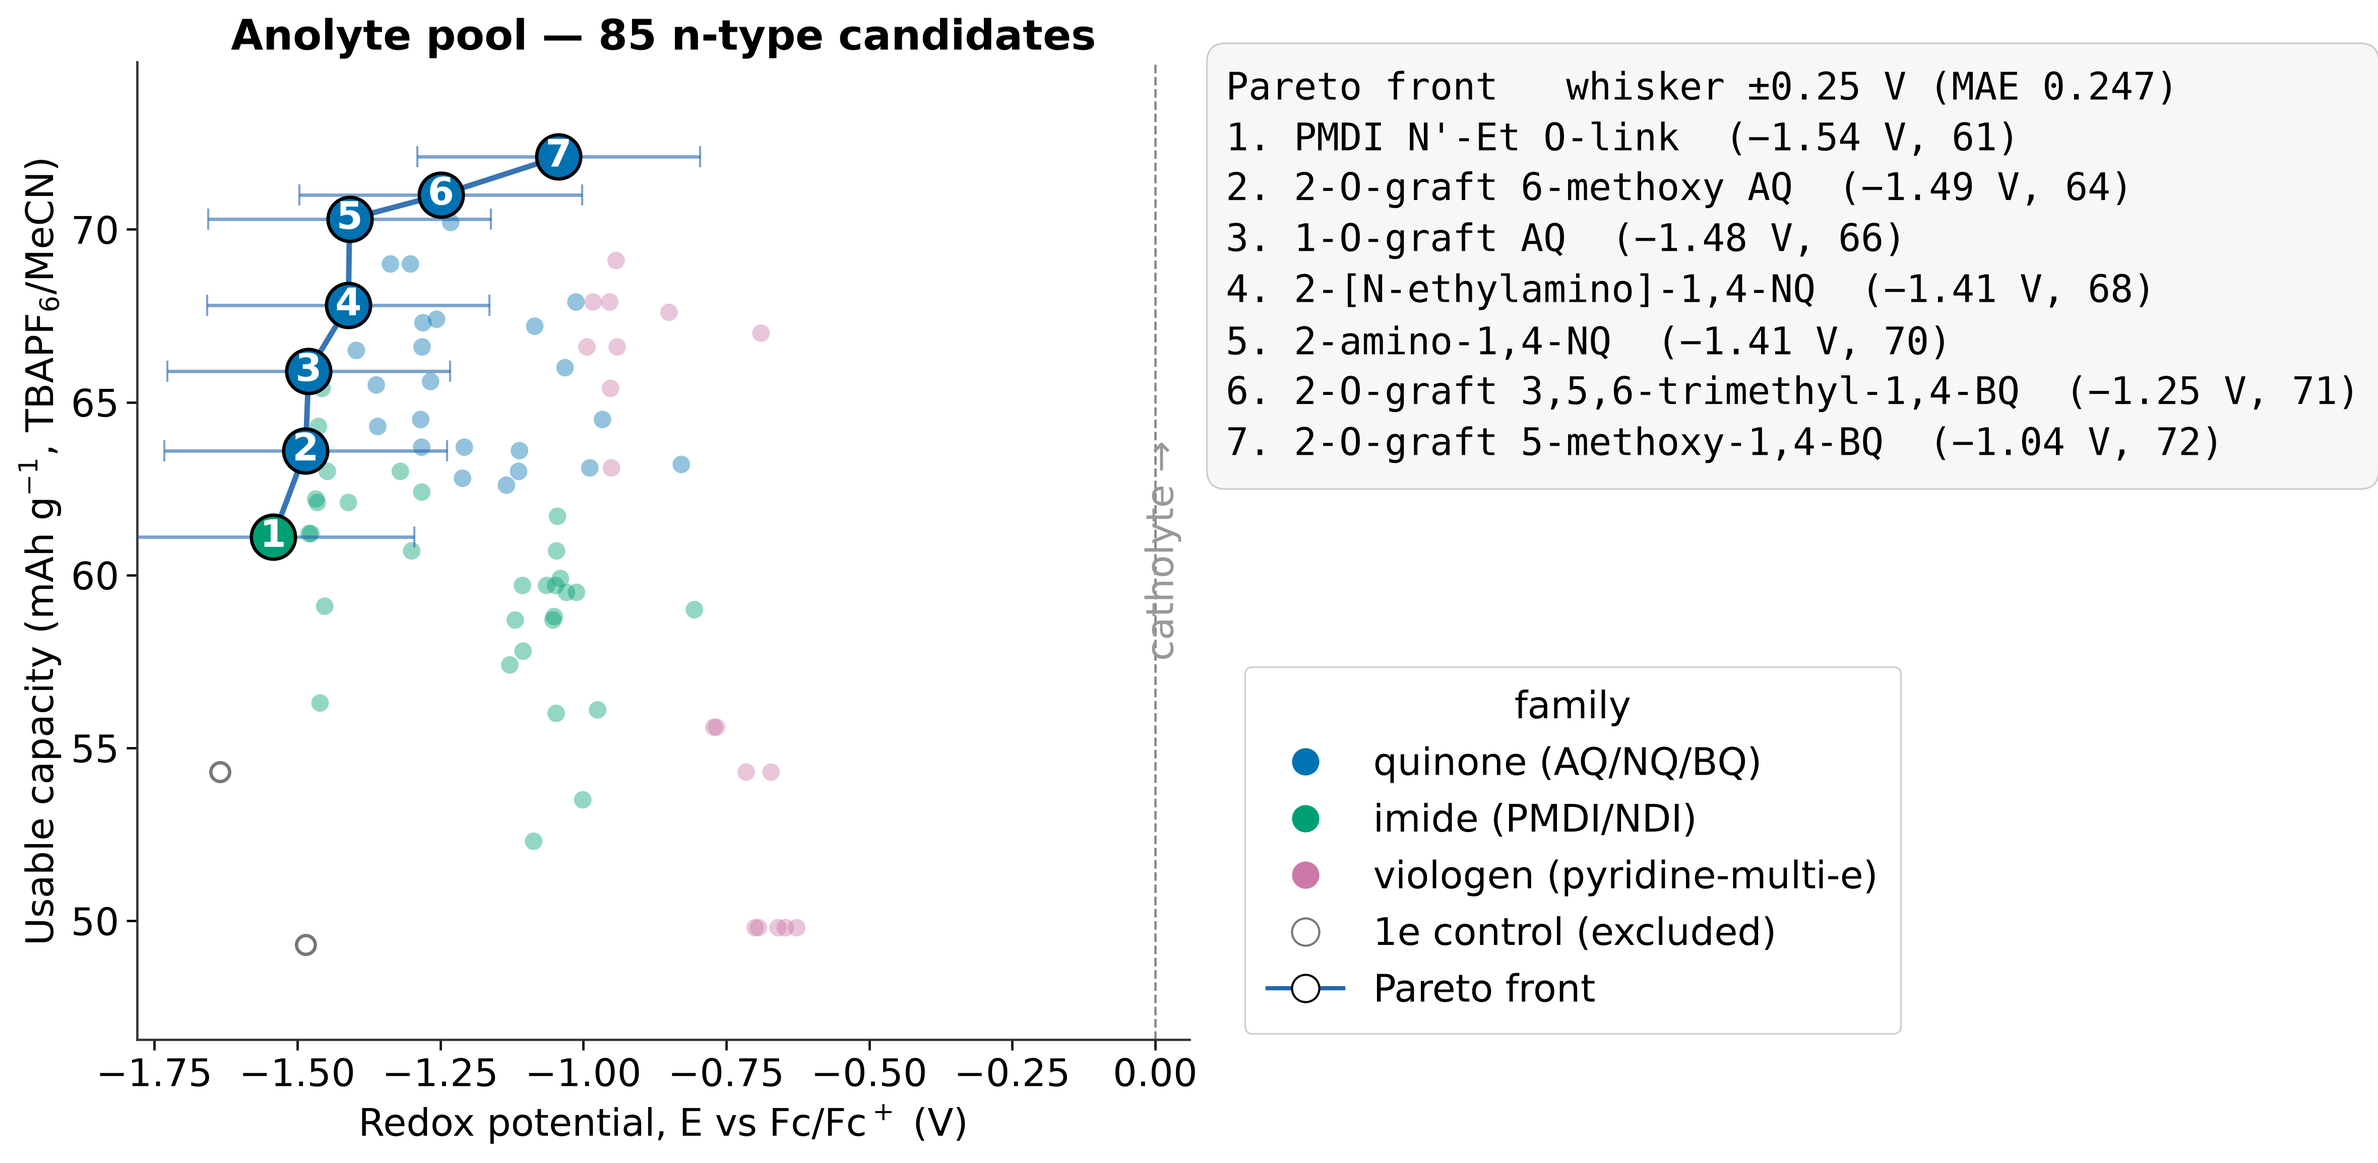
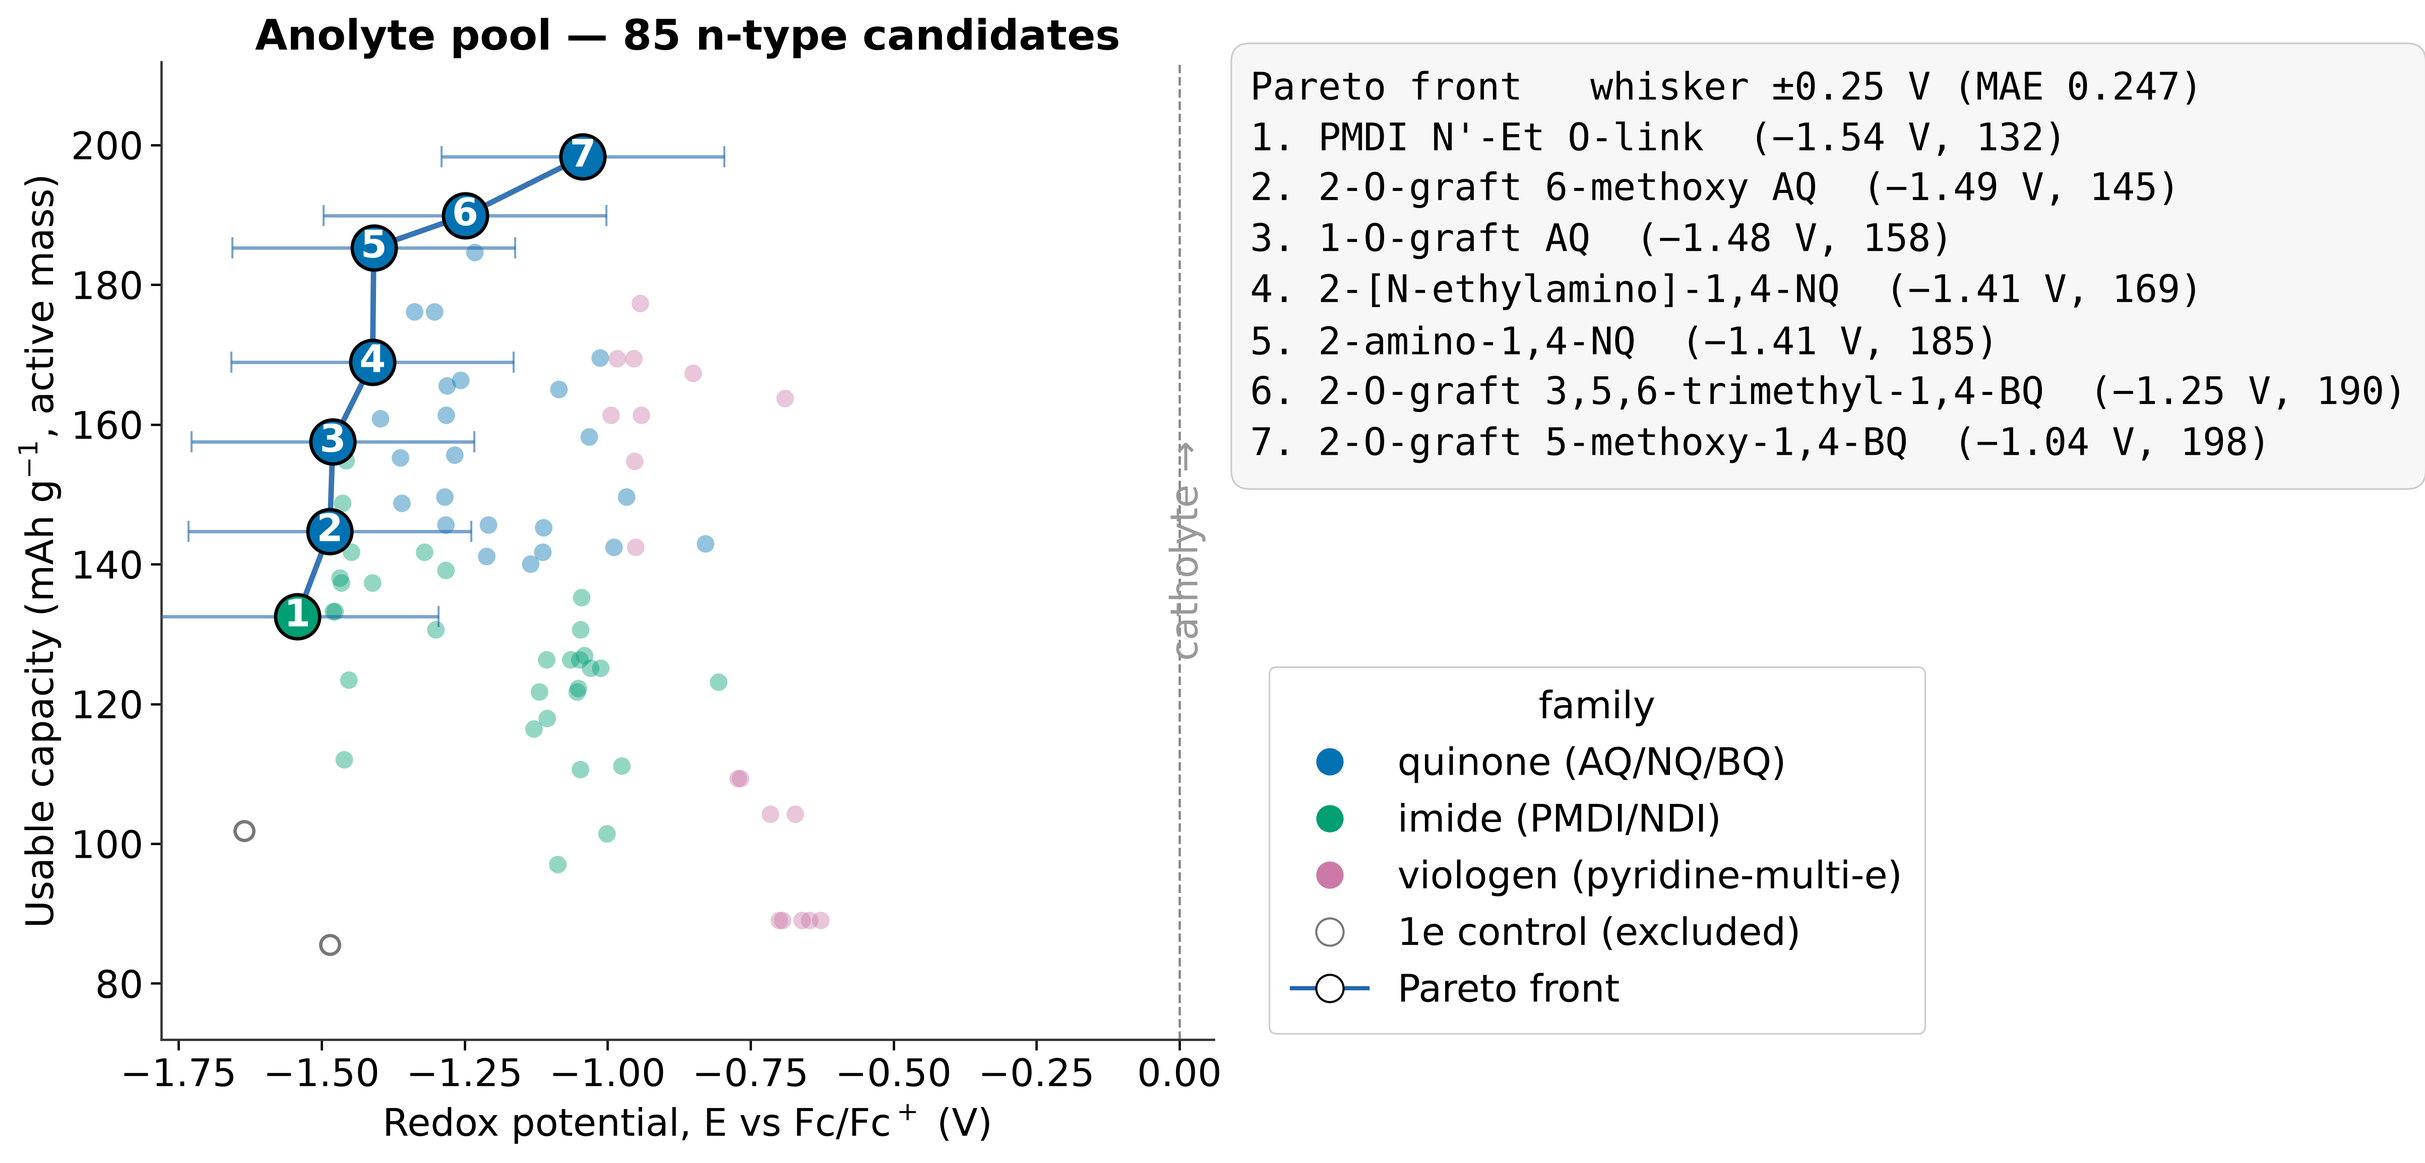
Report capacity on active repeat-unit mass; add catholyte calibration
Capacity: the scored pool CSV reported nF/3.6(MW + n*counterion), a
salt-loaded convention that contradicted the Methods formula and
penalized anolytes (TBA+ 242) more than catholytes (PF6- 145). The CSV
now carries cap_active_mAh_g (neutral polystyrene repeat-unit mass,
counterions excluded; the primary, standard convention) and
cap_salt_mAh_g (secondary, SI). Pareto-front membership is unchanged
in both pools; Figures 5 and 6b are regenerated on the active basis.
The claim that DMPZ capacity exceeds the anolyte band is withdrawn
(140-170 vs 90-200 mAh/g: comparable).

Potentials: Validation now reports the direction-split bias from the
39-endpoint panel (oxidation +0.29 V / reduction +0.17 V) and the
single-molecule BMEPZ check (MAE 0.30 V, bias +0.30 V), stating that
absolute DMPZ potentials are likely ~0.3 V too positive and that
matched shifts are the robust quantity. Cell voltages are given with
family-bias correction (1.91/1.95 -> ~1.84/1.88 V).

diff --git a/scripts/plotting/manuscript/fig5_pareto.py b/scripts/plotting/manuscript/fig5_pareto.py
@@ -9,7 +9,9 @@ Two SEPARATE one-panel figures (JCIM house rule + STYLE_CONTRACT.md: one panel p
 Axes are the two raw performance quantities, kept SEPARATE (no scalarized / weighted-sum
 figure of merit):
     x = redox potential  E  vs Fc/Fc+   (V)
-    y = usable capacity                  (mAh/g, TBAPF6/MeCN)
+    y = usable theoretical capacity      (mAh/g, nF/3.6M on the neutral active-species mass;
+        counterions excluded -- the standard convention; the salt-loaded variant is in the
+        CSV column cap_salt_mAh_g and the SI)
 
 One point per candidate, coloured by redox family (colours per STYLE_CONTRACT §2, identical
 across both panels). The Pareto-optimal front within each pool is marked (step line + outlined,
@@ -74,7 +76,7 @@ CAT_FRONT = "#B2182B"
 
 # Verbatim axis labels (STYLE_CONTRACT §3).
 XLABEL = "Redox potential, $E$ vs Fc/Fc$^+$ (V)"
-YLABEL = "Usable capacity (mAh g$^{-1}$, TBAPF$_6$/MeCN)"
+YLABEL = "Usable capacity (mAh g$^{-1}$, active mass)"
 
 # ---- compact real-chemistry labels (adapted from make_full_pool_figure.py) ----
 _CORE = [("anthracene-9,10-dione", "AQ"), ("anthraquinone", "AQ"),
@@ -162,7 +164,7 @@ def load_frozen():
     rows = [r for r in rows if r["id"] not in EXTRA_IDS]
     for r in rows:
         r["E"] = float(r["E_mean"])
-        r["cap"] = float(r["cap_mAh_g"])
+        r["cap"] = float(r["cap_active_mAh_g"])
         r["ctrl"] = r["id"].endswith("_control") or r["n"] == "1"
         r["fk"] = fam_key(r["family"])
         r["lab"] = label_for(r["name"])
@@ -256,12 +258,12 @@ def fig_catholyte(rows):
     fig.subplots_adjust(left=0.085, right=0.52, top=0.90, bottom=0.13)
 
     ax.set_xlim(-0.02, 2.0)   # full catholyte window (0 -> +2.0 V vs Fc) -> sparsity visible
-    ax.set_ylim(74, 96)
+    ax.margins(y=0.22)
 
     cat_max_E = max(r["E"] for r in cat)
     ax.axvspan(cat_max_E, 2.0, color="#DDDDDD", alpha=0.35, zorder=0)
-    ax.text((cat_max_E + 2.0) / 2, 94.6, "sparse /\nlargely unexplored", ha="center",
-            va="top", fontsize=BASE, color="#888888", style="italic")
+    ax.text((cat_max_E + 2.0) / 2, 0.95, "sparse /\nlargely unexplored", ha="center",
+            transform=ax.get_xaxis_transform(), va="top", fontsize=BASE, color="#888888", style="italic")
 
     for r in cat:
         if r["id"] in front_ids:

diff --git a/scripts/plotting/manuscript/fig6_dmpz_design_rule.py b/scripts/plotting/manuscript/fig6_dmpz_design_rule.py
@@ -84,7 +84,7 @@ def load_rows():
     out = {}
     for cid, m in META.items():
         r = rows[cid]
-        out[cid] = dict(E=float(r["E_mean"]), cap=float(r["cap_mAh_g"]),
+        out[cid] = dict(E=float(r["E_mean"]), cap=float(r["cap_active_mAh_g"]),
                         couples=r["E_couples"], **m)
     return out, rows
 
@@ -215,19 +215,21 @@ def make_fig6b(data):
     # span annotation across the grafted DMPZ series
     dmpz_E = [d["E"] for d in data.values() if d["fam"] == "dmpz"]
     lo, hi = min(dmpz_E), max(dmpz_E)
-    ax.annotate("", xy=(hi, 95.4), xytext=(lo, 95.4),
+    caps = [d["cap"] for d in data.values()]
+    y_arrow = max(caps) + 9.0
+    ax.annotate("", xy=(hi, y_arrow), xytext=(lo, y_arrow),
                 arrowprops=dict(arrowstyle="<->", color="#555555", lw=2.0))
-    ax.text((lo + hi) / 2, 96.1,
+    ax.text((lo + hi) / 2, y_arrow + 1.0,
             f"grafted DMPZ series: {_fmt(lo)} to {_fmt(hi)} V",
             ha="center", va="bottom", fontsize=FS, color="#333333")
 
     ax.set_xlabel("Redox potential, E vs Fc/Fc⁺ (V)", fontsize=FS)
-    ax.set_ylabel("Usable capacity (mAh g⁻¹, TBAPF₆/MeCN)", fontsize=FS)
+    ax.set_ylabel("Usable capacity (mAh g⁻¹, active mass)", fontsize=FS)
     ax.set_title("Catholyte sub-space populated by a structured DMPZ family",
                  fontsize=FS + 2, pad=14)
     ax.tick_params(axis="both", labelsize=FS)
     ax.set_xlim(0.05, 0.98)
-    ax.set_ylim(78, 99)
+    ax.set_ylim(min(caps) - 9.0, max(caps) + 15.0)
     grid_xy(ax, alpha=0.3)
 
     legend = [

diff --git a/scripts/plotting/make_full_pool_figure.py b/scripts/plotting/make_full_pool_figure.py
@@ -68,7 +68,7 @@ COL["other"] = "#999999"
 
 rows = list(csv.DictReader(open(CSV)))
 for r in rows:
-    r["E"] = float(r["E_mean"]); r["cap"] = float(r["cap_mAh_g"])
+    r["E"] = float(r["E_mean"]); r["cap"] = float(r["cap_active_mAh_g"])
     r["ctrl"] = r["id"].endswith("_control") or r["n"] == "1"
     r["fk"] = fam_key(r["family"]); r["lab"] = label_for(r["name"])
 

diff --git a/manuscript/manuscript_draft_v0.md b/manuscript/manuscript_draft_v0.md
@@ -262,7 +262,14 @@ never combined.
   *live* at the active protocol with the same free-energy definition as the
   molecules, cancelling the systematic error of an absolute reference
   (`properties/potentials.py`; RT/F = 0.025693 V, Nernst slope 0.059160 V).
-- **Usable capacity.** Specific capacity C_spec = nF/(3.6·MW) [mAh g⁻¹] on the
+- **Usable capacity.** Theoretical specific capacity C_spec = nF/(3.6·M) [mAh g⁻¹],
+  with M the neutral polystyrene repeat-unit mass of the graft (above) and
+  counterions excluded, the usual active-material convention. A salt-loaded variant
+  that adds the heaviest counterion load (n PF₆⁻ for catholytes, n TBA⁺ for
+  anolytes) is reported in the SI. Because TBA⁺ (242 g mol⁻¹) is much heavier than
+  PF₆⁻ (145 g mol⁻¹), that variant penalizes anolytes more than catholytes, so it
+  must not be used to compare capacities across pools. It does not change
+  Pareto-front membership within either pool. Capacity is counted on the
   accessible electron path, with electrons counted as *usable* only while their
   potentials lie inside the TBAPF₆/MeCN stability window ([−3.0, 2.0] V vs Fc,
   anolyte/catholyte divider 0 V); a second electron outside the window collapses to
@@ -400,7 +407,10 @@ experimental potentials with a mean absolute error of **0.247 V**, an RMSE of 0.
 and a **systematic bias of +0.19 V** (computed potentials sit above experiment),
 with a maximum absolute error of 0.547 V. The panel comprises **39 scored
 endpoints (redox couples) drawn from 30 molecules and seven independent studies**.
-Per-molecule (macro) MAE is 0.263 V. Uncertainty is
+Per-molecule (macro) MAE is 0.263 V. The bias depends on the direction of the
+couple: the 33 reduction endpoints (anolyte-like) give MAE 0.239 V and bias
++0.17 V, whereas the six oxidation endpoints (five phenothiazine, one nitroxide;
+catholyte-like) give MAE 0.289 V and bias +0.29 V. Uncertainty is
 quantified by cluster bootstrap (2000 replicates, seed 20261021): resampling by
 molecule gives a 95% interval of [0.213, 0.286] V for MAE and [0.128, 0.257] V for
 bias; the weaker seven-study clustering gives [0.178, 0.306] V and [0.053, 0.285] V,
@@ -426,6 +436,17 @@ polymer interactions (`exact_graft_accuracy_validated = False` in the record); e
 naphthalene-diimide (NDI) accuracy is not covered, since the available NDI entry was
 excluded for inferred identity and unspecified stereocenters; and causal attribution of
 the bias to the Fc reference versus solvation remains unresolved.
+
+The panel contains no dihydrophenazine, so it does not by itself calibrate the
+catholyte family used in the showcase below. As a family-specific check we computed
+the exact measured parent, 5,10-bis(2-methoxyethyl)-5,10-dihydrophenazine (BMEPZ;
+E₁ = −0.29 V, E₂ = +0.50 V vs Fc in MeCN [Kwon 2019]), at the same ranking level
+used for the pool. The computed couples are −0.06 and +0.87 V, errors of +0.23 and
++0.37 V (MAE 0.30 V, bias +0.30 V). This is one molecule, so it is a check rather
+than a benchmark, but it agrees with the oxidation-side bias of the panel and implies
+that the absolute DMPZ potentials reported below are likely about 0.3 V too
+positive. **[TODO: persist the BMEPZ computed record (`scripts/validation/bmepz_anchor.py`)
+alongside the benchmark evidence; it currently exists only in a dated run note.]**
 
 **Figure 4.** The parity plot reports computed vs experimental E_vs_Fc for all 39
 endpoints, colored by chemical family (quinone n=22, MAE 0.286 V; aromatic imide n=9,
@@ -488,9 +509,10 @@ candidates) is densely populated across a wide potential window: diimides and
 amino-/alkoxy-naphthoquinones span roughly −1.0 to −1.6 V vs Fc, with
 pyromellitic diimides (e.g. the ether-tethered PMDI at −1.54 V) and
 alkoxy-anthraquinones (≈ −1.49 V) anchoring the most-negative edge and the
-multi-electron viologens clustering nearer −0.7 to −1.0 V. Nominal capacities
-across the anolyte pool fall in the ≈ 50–72 mAh g⁻¹ band, trending down as
-solubilizing oligoether or long-alkyl caps add inert mass. The catholyte panel,
+multi-electron viologens clustering nearer −0.7 to −1.0 V. Theoretical capacities
+of the two-electron anolytes span ≈ 90–200 mAh g⁻¹, highest for the light
+benzo- and naphthoquinones and falling as solubilizing oligoether or long-alkyl caps
+add inert mass. The catholyte panel,
 by contrast, is almost empty: six points, five of them dihydrophenazines
 clustered near +0.4 to +0.5 V and one 3,7-dimethoxyphenothiazine at +0.78 V.
 This visual sparsity — a crowded anolyte front against a nearly bare catholyte
@@ -511,13 +533,13 @@ confirmed series potentials (E vs Fc, mean of the two one-electron couples, from
 
 | Candidate | N′ / ring substitution | E vs Fc (V) | Couples (V) | Capacity (mAh g⁻¹) |
 |---|---|---:|---|---:|
-| `exp_dmpz_mb_ethyl` | N′-ethyl | +0.43 | −0.03 / +0.89 | 88.7 |
-| `exp_dmpz_mb_methyl` | N′-methyl | +0.47 | +0.03 / +0.91 | 90.8 |
-| `hyp_dmpz_mb_methoxyethyl` | N′-(2-methoxyethyl) | +0.47 | +0.01 / +0.94 | 84.5 |
-| `hyp_dmpz_mb_trifluoroethyl` | N′-(2,2,2-trifluoroethyl) | +0.62 | +0.15 / +1.10 | 81.4 |
-| `hyp_dmpz_27dimethyl_ethyl` | 2,7-dimethyl, N′-ethyl | +0.30 | −0.14 / +0.73 | 84.8 |
-| `hyp_dmpz_27dimethoxy_ethyl` | 2,7-dimethoxy, N′-ethyl | +0.21 | −0.22 / +0.64 | 80.7 |
-| `exp_ptz_37dimethoxy` | 3,7-dimethoxyphenothiazine | +0.78 | +0.37 / +1.19 | 82.0 |
+| `exp_dmpz_mb_ethyl` | N′-ethyl | +0.43 | −0.03 / +0.89 | 164.2 |
+| `exp_dmpz_mb_methyl` | N′-methyl | +0.47 | +0.03 / +0.91 | 171.6 |
+| `hyp_dmpz_mb_methoxyethyl` | N′-(2-methoxyethyl) | +0.47 | +0.01 / +0.94 | 150.4 |
+| `hyp_dmpz_mb_trifluoroethyl` | N′-(2,2,2-trifluoroethyl) | +0.62 | +0.15 / +1.10 | 140.9 |
+| `hyp_dmpz_27dimethyl_ethyl` | 2,7-dimethyl, N′-ethyl | +0.30 | −0.14 / +0.73 | 151.2 |
+| `hyp_dmpz_27dimethoxy_ethyl` | 2,7-dimethoxy, N′-ethyl | +0.21 | −0.22 / +0.64 | 138.7 |
+| `exp_ptz_37dimethoxy` | 3,7-dimethoxyphenothiazine | +0.78 | +0.37 / +1.19 | 142.7 |
 
 Read as matched deltas against the N′-ethyl DMPZ reference (+0.43 V), the series
 yields a clean, transferable **design rule**. An electron-withdrawing
@@ -531,9 +553,15 @@ ends of the scaffold, so N′-electron-withdrawal and ring-electron-donation giv
 independent, oppositely-signed control over where a DMPZ catholyte sits — spanning
 ≈ +0.21 to +0.62 V across the grafted series, with the distinct
 3,7-dimethoxyphenothiazine scaffold extending the catholyte reach to +0.78 V.
-Equally important for a flow-battery catholyte, these light two-electron
-phenazine cores deliver high nominal capacity (≈ 81–91 mAh g⁻¹), above the
-anolyte band, because the redox-active mass fraction is large. Re-plotting the
+These light two-electron phenazine cores give theoretical capacities of
+≈ 140–170 mAh g⁻¹. That is comparable to the anolyte pool, so the catholyte side is
+not a capacity bottleneck.
+
+Two cautions apply to these numbers. First, the matched shifts are the robust
+quantity: within one scaffold, errors common to the family cancel. Second, the
+absolute potentials are probably too high. The BMEPZ check above puts the DMPZ
+couples about 0.3 V too positive, so the series likely sits nearer −0.1 to +0.3 V
+vs Fc in experiment. Re-plotting the
 catholyte Pareto panel with these points shows the gap being filled by a
 structured family rather than by isolated outliers (Figure 6).
 
@@ -561,7 +589,11 @@ alkoxy-anthraquinone or pyromellitic-diimide anolyte (≈ −1.48 V) yields ≈ 
 and the more electron-poor N′-(2,2,2-trifluoroethyl) DMPZ (E ≈ +0.62 V) paired
 with an ether-tethered PMDI anolyte (≈ −1.48 to −1.54 V) would extend the proposal
 toward ≈ 2.1 V (mean-potential arithmetic verified against the scored CSV:
-+0.43/+0.47 − (−1.48) = 1.91/1.95 V; +0.62 − (−1.48) = 2.10 V). The design rule above makes
++0.43/+0.47 − (−1.48) = 1.91/1.95 V; +0.62 − (−1.48) = 2.10 V). These cell voltages are
+less sensitive to the calibration bias than the individual potentials, because the
+two biases partly cancel. Subtracting the family-specific biases (+0.30 V for DMPZ
+from the BMEPZ check; +0.23 V for quinones from the benchmark) lowers the 1.91 and
+1.95 V cells to about 1.84 and 1.88 V. The design rule above makes
 this voltage a tunable quantity rather than a single number: catholyte and
 anolyte potentials can be shifted independently to target a window.
 

diff --git a/docs/MANUSCRIPT_PIPELINE_SPINE.md b/docs/MANUSCRIPT_PIPELINE_SPINE.md
@@ -63,11 +63,11 @@ with grafted dihydrophenazines carrying DFT-confirmed substituent design rules, 
   Anolyte front 7, catholyte front 3; the expansion fills the catholyte side.
 - KEY RESULT (the expansion's contribution): grafted dihydrophenazine 2e catholytes with
   DFT-confirmed design rules:
-  - smaller N'-cap -> higher capacity (N'-methyl-DHP 91 mAh/g, pool best 2e catholyte)
+  - smaller N'-cap -> higher capacity (N'-methyl-DHP 172 mAh/g active repeat-unit mass, pool best 2e catholyte)
   - EWG N'-cap -> higher potential (N'-CF3CH2-DHP +0.62 V)
   - ring donor -> lower potential, MONOTONIC: unsub +0.43 -> 2,7-diMe +0.30 -> 2,7-diOMe +0.21 V
-- PROPOSED LEAD CELL: 2-amino-1,4-NQ (anolyte -1.41 V, 70 mAh/g, lambda_o 0.73 eV) +
-  N'-methyl-DHP (catholyte +0.47 V, 91 mAh/g, lambda_o 0.70 eV, lambda_i reliable)
+- PROPOSED LEAD CELL: 2-amino-1,4-NQ (anolyte -1.41 V, 185 mAh/g active, lambda_o 0.73 eV) +
+  N'-methyl-DHP (catholyte +0.47 V, 172 mAh/g active, lambda_o 0.70 eV, lambda_i reliable)
   -> ~1.8 V (1.78-1.87 bias-corrected), +/- ~0.4 V per-couple uncertainty.
 - CAVEAT: a full CELL has no experimental datum (candidates are un-synthesized proposals); only
   the component potentials are benchmarked.

diff --git a/manuscript/figures/fig5_pareto.caption.md b/manuscript/figures/fig5_pareto.caption.md
@@ -5,8 +5,9 @@
 **Figure 5. Redox potential versus usable capacity for the 91-candidate grafted-motif pool,
 resolved into the two separate electrolyte roles.**
 Each point is one candidate, placed by its two computed performance quantities kept on
-*independent* axes — reduction/oxidation potential *E* vs Fc/Fc+ (x) and usable gravimetric
-capacity in TBAPF6/MeCN (y) — and coloured by redox family. **No weighted-sum or scalarized
+*independent* axes — reduction/oxidation potential *E* vs Fc/Fc+ (x) and theoretical
+gravimetric capacity (y; nF/3.6M on the neutral repeat-unit mass, counterions excluded —
+the salt-loaded variant, which leaves front membership unchanged, is in the SI) — and coloured by redox family. **No weighted-sum or scalarized
 figure of merit is used:** potential and capacity are never combined, so the trade-off is read
 directly from the plane rather than from a single ranked score. The Pareto-optimal front within
 each pool (step line, outlined numbered markers keyed to real chemical names) is the set of

diff --git a/manuscript/figures/fig6_dmpz_design_rule.caption.md b/manuscript/figures/fig6_dmpz_design_rule.caption.md
@@ -24,9 +24,9 @@ electron-**donating** ring substituent **lowers** E: 2,7-dimethyl by −0.13 V (
 +0.30 V) and 2,7-dimethoxy by −0.22 V (to +0.21 V) relative to the same N′-ethyl
 parent. The grafted DMPZ series therefore spans +0.21 to +0.62 V, and the
 distinct PTZ scaffold extends the catholyte reach to +0.78 V. Panel **(b)**
-re-plots the catholyte sub-space (E vs Fc/Fc⁺ against usable capacity in
-TBAPF₆/MeCN); these light two-electron cores deliver high usable capacity
-(~81–91 mAh g⁻¹), and the structured family fills the catholyte gap rather than
+re-plots the catholyte sub-space (E vs Fc/Fc⁺ against theoretical capacity on the
+neutral repeat-unit mass); these light two-electron cores reach ~140–170 mAh g⁻¹,
+comparable to the anolyte pool, and the structured family fills the catholyte gap rather than
 scattering as isolated outliers.
 
 Open markers and an asterisk denote **provisional** members: the matched
